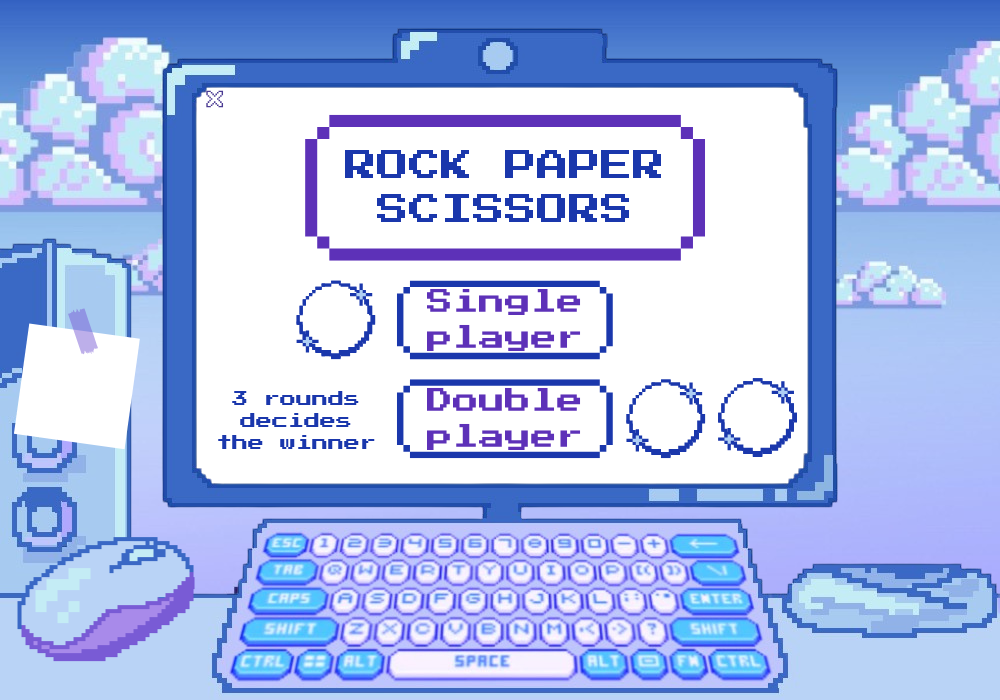
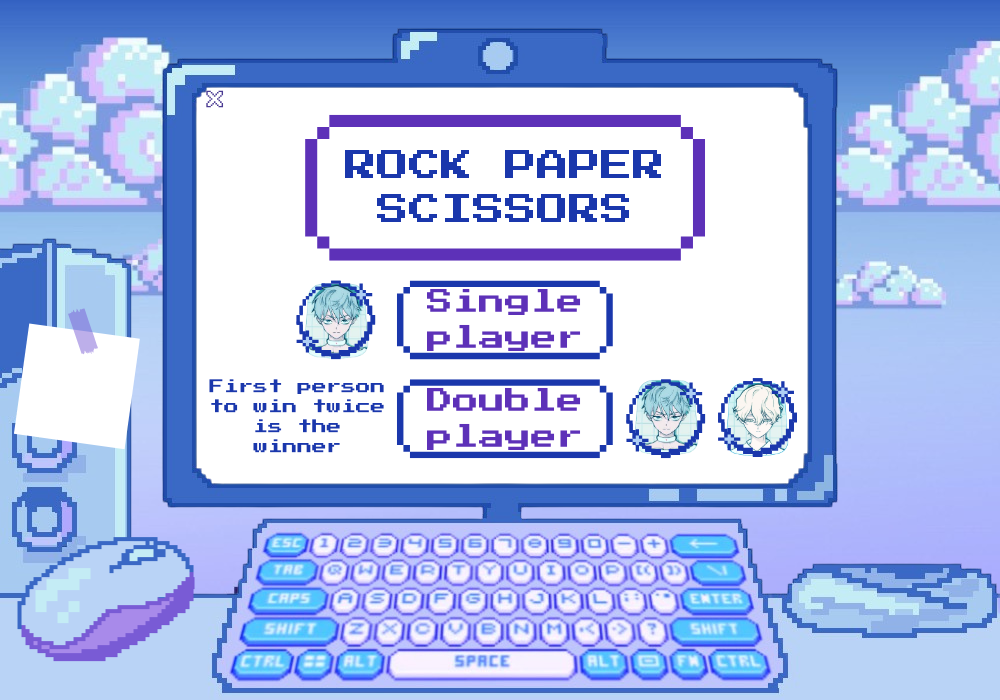
technically done with the mini game but some bugs...

Changed region(s): [[0.186, 0.54, 0.403, 0.66], [0.62, 0.54, 0.806, 0.66], [0.279, 0.39, 0.372, 0.51]]

diff --git a/src/ButtonClass.java b/src/ButtonClass.java
@@ -1,9 +1,7 @@
 import javax.imageio.ImageIO;
 import javax.swing.*;
 import java.awt.*;
-import java.awt.event.KeyAdapter;
-import java.awt.event.KeyEvent;
-import java.awt.event.KeyListener;
+import java.awt.event.*;
 import java.awt.image.BufferedImage;
 import java.io.File;
 import java.io.IOException;
@@ -28,6 +26,9 @@ public class ButtonClass {
     private TicTacToe ticTacToe;
     private JLabel TTTWin, TTTLose, TTTDraw, TTTNull;
     private boolean[] pressedKeys;
+    private int round;
+    private int wins;
+    private int lose;
 
 
     public ButtonClass(Frame cardLayoutPanel,Player player, JPanel mainPanel)  {
@@ -86,6 +87,9 @@ public class ButtonClass {
         backBtnEdit = new JButton();
         backBtnRPS = new JButton();
         backBtnTTT = new JButton();
+        round = 1;
+        wins = 0;
+        lose = 0;
 
         try {
             pressStartFont = Font.createFont(Font.TRUETYPE_FONT, new File("src/PressStart2P-Regular.ttf"))
@@ -455,10 +459,12 @@ public class ButtonClass {
 
         singleBtn.addActionListener(e -> {
             pressedKeys = new boolean[128];
-            vsAnimation(); // triggers the animation
+            //hasPlayedIntroAnimation = true;
+            vsAnimation();
         });
 
         doubleBtn.addActionListener(e -> {
+            pressedKeys = new boolean[128];
             vsAnimation();
         });
 
@@ -515,10 +521,6 @@ public class ButtonClass {
             cardLayoutPanel.showCard("EndDayScreen");
         });
     }
-
-//    public void setContinueButtonListener(ActionListener listener) {
-//        bookBtn.addActionListener(listener);
-//    }
 
     private void customizeButton(JButton button) {
         button.setOpaque(false);
@@ -690,6 +692,7 @@ public class ButtonClass {
         appScreen.repaint();
     }
 
+
     public void vsAnimation() {
         ArrayList<BufferedImage> vsAnimation = new ArrayList<>();
         for (int i = 0; i < 29; i++) {
@@ -705,48 +708,149 @@ public class ButtonClass {
         this.mainPanel.add(animationPanel, "animation");
         this.cardLayoutPanel.showCard("animation");
 
-        JLabel roundLabel = new JLabel("Round 1");
-        roundLabel.setFont(pressStartFont.deriveFont(45f));
-        Color color = Color.decode("#5d31b8");
-        roundLabel.setForeground(color);
-        roundLabel.setBounds(335, 310, 500, 50);
-
-        JLabel usernameLabel = new JLabel(usernameText.getText());
-        usernameLabel.setFont(pressStartFont.deriveFont(45f));
-        Color color2 = Color.decode("#a589e8");
-        usernameLabel.setForeground(color2);
-        usernameLabel.setBounds(610, 600, 200, 50);
-
         SoundUtils.playSound("src/Round 1 Fight! (Mortal Kombat Meme) - Sound Effect for editing.wav");
 
         animationPanel.setOnComplete(() -> {
-            JPanel roundScreen = cardLayoutPanel.getRoundScreen();
+            this.mainPanel.remove(animationPanel);
+            this.mainPanel.revalidate();
+            this.mainPanel.repaint();
 
+            JPanel roundScreen = cardLayoutPanel.getRoundScreen();
             roundScreen.setLayout(null);
+
+            JLabel roundLabel = new JLabel("Round " + round);
+            roundLabel.setFont(pressStartFont.deriveFont(45f));
+            roundLabel.setForeground(Color.decode("#5d31b8"));
+            roundLabel.setBounds(335, 310, 500, 50);
+
+            JLabel winLabelPlayer1 = new JLabel("Wins: " + wins);
+            winLabelPlayer1.setFont(pressStartFont.deriveFont(25f));
+            winLabelPlayer1.setForeground(Color.decode("#5d31b8"));
+            winLabelPlayer1.setBounds(430, 430, 200, 60);
+
+            JLabel winLabelPlayer2 = new JLabel("Wins: " + lose);
+            winLabelPlayer2.setFont(pressStartFont.deriveFont(25f));
+            winLabelPlayer2.setForeground(Color.decode("#5d31b8"));
+            winLabelPlayer2.setBounds(15, 25, 200, 60);
+
+            JLabel usernameLabel = new JLabel(usernameText.getText());
+            usernameLabel.setFont(pressStartFont.deriveFont(45f));
+            usernameLabel.setForeground(Color.decode("#a589e8"));
+            usernameLabel.setBounds(610, 600, 200, 50);
+
+            roundScreen.removeAll();
             roundScreen.add(roundLabel);
             roundScreen.add(usernameLabel);
+            roundScreen.add(winLabelPlayer1);
+            roundScreen.add(winLabelPlayer2);
             roundScreen.revalidate();
             roundScreen.repaint();
 
             roundScreen.requestFocusInWindow();
+
+            setupRoundScreenKeyListener(roundScreen);
         });
     }
 
     private void switchToResult(String move) {
         int ai = aiPlayer();
         String result;
-        if (ai == 1) result = move + "Tie";
-        else if (ai == 2) result = move + "Win";
-        else result = move + "Lose";
 
+        if (ai == 1) {
+            result = move + "Tie";
+        } else if (ai == 2) {
+            wins++;
+            result = move + "Win";
+        } else {
+            lose++;
+            result = move + "Lose";
+        }
+
+        if (wins == 2) {
+            ArrayList<BufferedImage> vsAnimation2 = new ArrayList<>();
+            for (int i = 0; i < 24; i++) {
+                String fileName = "src/images/RockPaperScissorsGame/winAnimation/frame" + i + ".jpg";
+                try {
+                    vsAnimation2.add(ImageIO.read(new File(fileName)));
+                } catch (IOException e2) {
+                    System.out.println(e2.getMessage());
+                }
+            }
+
+            JPanelAnimation animationPanel2 = new JPanelAnimation(this.cardLayoutPanel, "EndScreen", vsAnimation2, 100, 2);
+
+            this.mainPanel.add(animationPanel2, "animation2");
+            this.cardLayoutPanel.showCard("animation2");
+
+            animationPanel2.setOnComplete(() -> {
+                this.mainPanel.remove(animationPanel2);
+                this.mainPanel.revalidate();
+                this.mainPanel.repaint();
+
+                JPanel endScreen = new JPanel();
+                endScreen.setLayout(null);
+
+                JLabel endLabel = new JLabel("You Win!");
+                endLabel.setFont(pressStartFont.deriveFont(45f));
+                endLabel.setForeground(Color.decode("#5d31b8"));
+                endLabel.setBounds(300, 300, 400, 50);
+
+                endScreen.add(endLabel);
+
+                this.mainPanel.add(endScreen, "EndScreen");
+                this.cardLayoutPanel.showCard("EndScreen");
+
+                endScreen.requestFocusInWindow();
+            });
+
+            return;
+        }
         cardLayoutPanel.showCard(result);
 
-        // Wait 3 seconds, then switch back and request focus
         new javax.swing.Timer(3000, e -> {
+            round++;
+            updateRoundScreen();
             cardLayoutPanel.showCard("RoundScreen");
-            cardLayoutPanel.getRoundScreen().requestFocusInWindow();
             ((javax.swing.Timer) e.getSource()).stop();
         }).start();
+    }
+
+    private void updateRoundScreen() {
+        JPanel roundScreen = cardLayoutPanel.getRoundScreen();
+        roundScreen.setLayout(null);
+        roundScreen.removeAll();
+
+        JLabel roundLabel = new JLabel("Round " + round);
+        roundLabel.setFont(pressStartFont.deriveFont(45f));
+        roundLabel.setForeground(Color.decode("#5d31b8"));
+        roundLabel.setBounds(335, 310, 500, 50);
+
+        JLabel winLabelPlayer1 = new JLabel("Wins: " + wins);
+        winLabelPlayer1.setFont(pressStartFont.deriveFont(25f));
+        winLabelPlayer1.setForeground(Color.decode("#5d31b8"));
+        winLabelPlayer1.setBounds(430, 430, 200, 60);
+
+        JLabel winLabelPlayer2 = new JLabel("Wins: " + lose);
+        winLabelPlayer2.setFont(pressStartFont.deriveFont(25f));
+        winLabelPlayer2.setForeground(Color.decode("#5d31b8"));
+        winLabelPlayer2.setBounds(15, 25, 200, 60);
+
+        JLabel usernameLabel = new JLabel(usernameText.getText());
+        usernameLabel.setFont(pressStartFont.deriveFont(45f));
+        usernameLabel.setForeground(Color.decode("#a589e8"));
+        usernameLabel.setBounds(610, 600, 200, 50);
+
+        roundScreen.add(roundLabel);
+        roundScreen.add(usernameLabel);
+        roundScreen.add(winLabelPlayer1);
+        roundScreen.add(winLabelPlayer2);
+
+        roundScreen.revalidate();
+        roundScreen.repaint();
+
+        setupRoundScreenKeyListener(roundScreen);
+
+        SwingUtilities.invokeLater(roundScreen::requestFocusInWindow);
     }
 
     void setupRoundScreenKeyListener(JPanel roundScreen) {
@@ -760,6 +864,7 @@ public class ButtonClass {
         roundScreen.addKeyListener(new KeyAdapter() {
             @Override
             public void keyPressed(KeyEvent e) {
+                System.out.println("Key pressed: " + e.getKeyChar());
                 int key = e.getKeyCode();
                 if (key == KeyEvent.VK_A) {
                     switchToResult("Rock");

diff --git a/src/JPanelAnimation.java b/src/JPanelAnimation.java
@@ -24,6 +24,8 @@ public class JPanelAnimation extends JPanel implements ActionListener {
         this.maxLoops = maxLoops;
         timer = new Timer(delay, this);
         timer.start();
+        setFocusable(false);
+        setRequestFocusEnabled(false);
     }
 
     public void setOnComplete(Runnable onComplete) {
